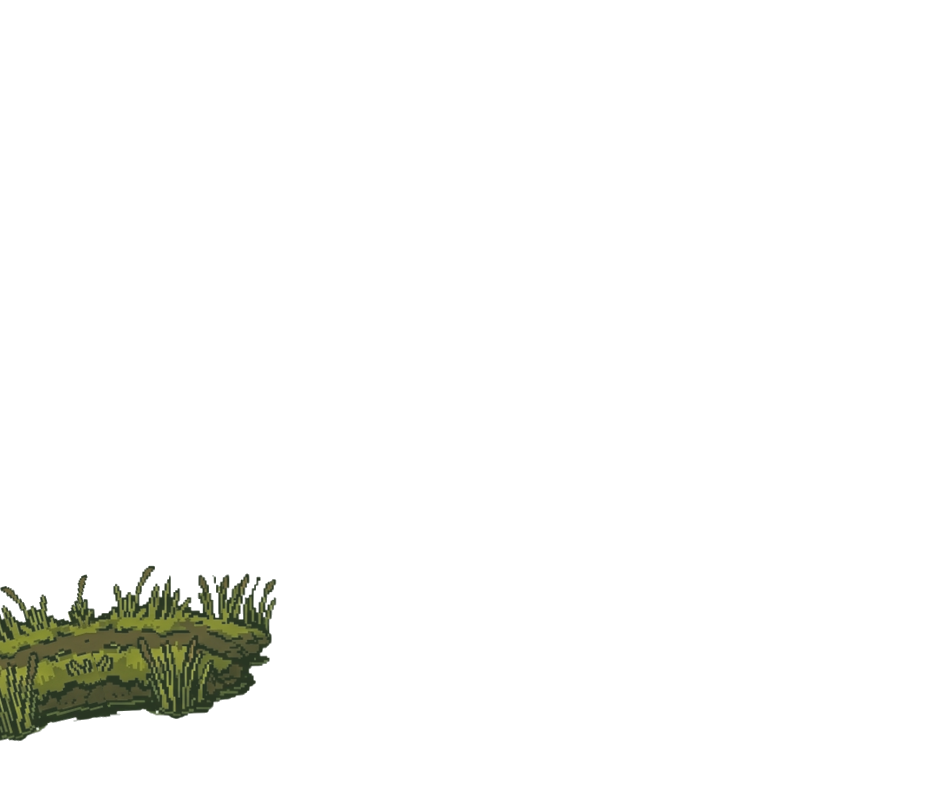
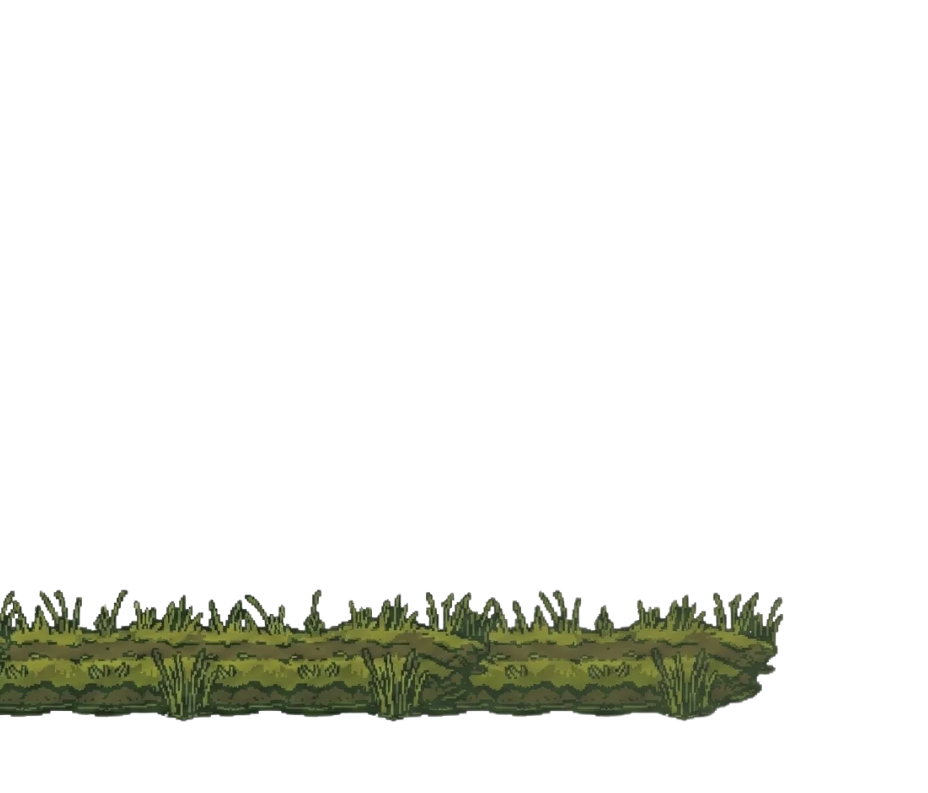
pantano: adiciona camada_0 (ground-fg) como camada mais à frente
Processa a faixa de grama/chão com remoção de fundo branco (PIL threshold 238)
e insere como z:5 estático (parallax factor 0) no topo da pilha de camadas do pantano.

Changed region(s): [[0.0, 0.6961, 0.8438, 0.9382]]

diff --git a/src/components/Game/StoryGame.tsx b/src/components/Game/StoryGame.tsx
@@ -1470,6 +1470,9 @@ function ParallaxWorld({ bg, worldX, gateOpen, gateFrame, landmarkAnchor, nearby
 
         {/* camada_1 — dead-trees (em cima da 2) */}
         <div style={layer('/assets/pantano/dead-trees.png', 0.05, 4, { backgroundSize: 'auto 350px' })} />
+
+        {/* camada_0 — ground-fg (estático, mais à frente) */}
+        <div style={layer('/assets/pantano/ground-fg.png', 0, 5, { backgroundSize: 'auto 350px' })} />
       </div>
     );
   }
